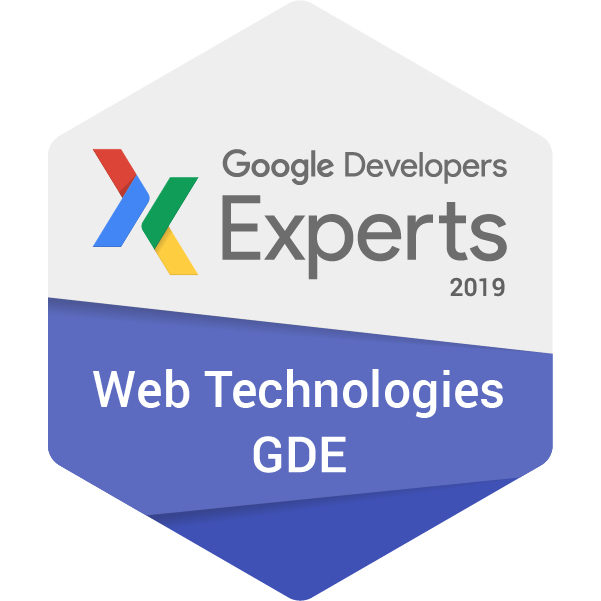
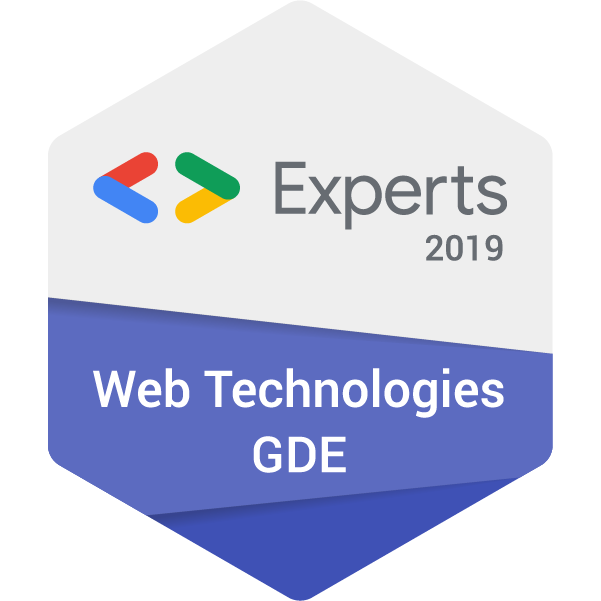
Added .bat files, new image and fixed styling issue

diff --git a/assets/styles.css b/assets/styles.css
@@ -27,3 +27,7 @@ img.glow {
 .twitter {
     color: #0084b4;
 }
+
+div.south-east > a:nth-child(1) {
+    right: -12px;
+}

diff --git a/PITCHME.md b/PITCHME.md
@@ -5,7 +5,7 @@
 @snap[south-west]
 [@css[twitter](@fa[twitter]) @davidpine7](https://twitter.com/davidpine7)
 <br/ >
-[@color[grey](@fab[github]) github.com/IEvangelist](https://github.com/IEvangelist)
+[@color[#f5f5f5](@fab[github]) github.com/IEvangelist](https://github.com/IEvangelist)
 @snapend
 
 @snap[west clear fit]
